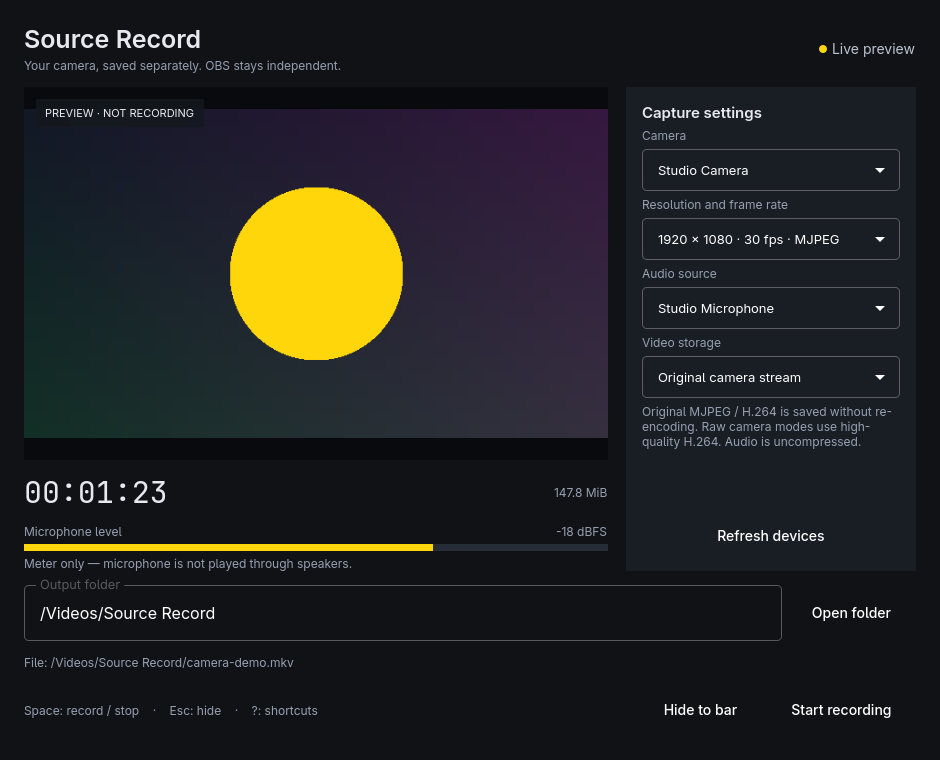
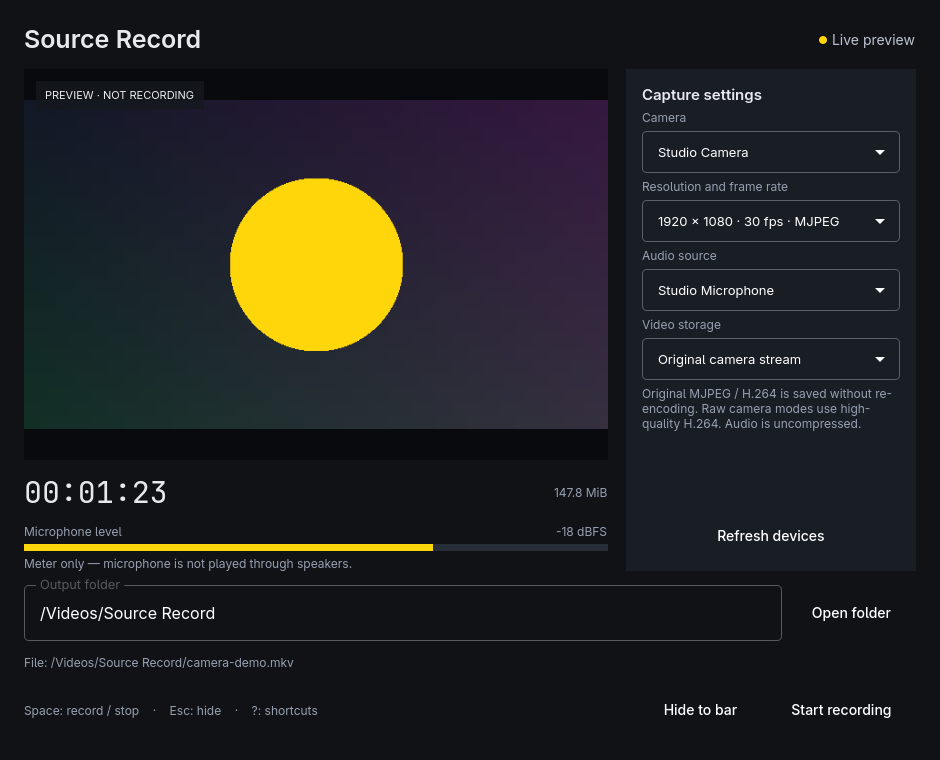
Remove the window subtitle

diff --git a/src/Main.qml b/src/Main.qml
@@ -57,7 +57,6 @@ ApplicationWindow {
                 ColumnLayout {
                     spacing: 3
                     PlainLabel { text: qsTr("Source Record"); font.pixelSize: 25; font.weight: Font.DemiBold }
-                    Caption { text: qsTr("Your camera, saved separately. OBS stays independent.") }
                 }
                 Item { Layout.fillWidth: true }
                 Rectangle { width: 8; height: 8; radius: 4; color: win.state.recording ? "#ff606a" : theme.accent }

diff --git a/src/main.cpp b/src/main.cpp
@@ -124,7 +124,7 @@ int main(int argc, char *argv[]) {
         return cli(app.arguments());
     }
     QGuiApplication app(argc, argv);
-    app.setApplicationName("source-record"); app.setApplicationVersion("0.1.1");
+    app.setApplicationName("source-record"); app.setApplicationVersion("0.1.2");
     app.setDesktopFileName("source-record");
     app.setWindowIcon(QIcon::fromTheme("source-record"));
     app.setQuitOnLastWindowClosed(false);
